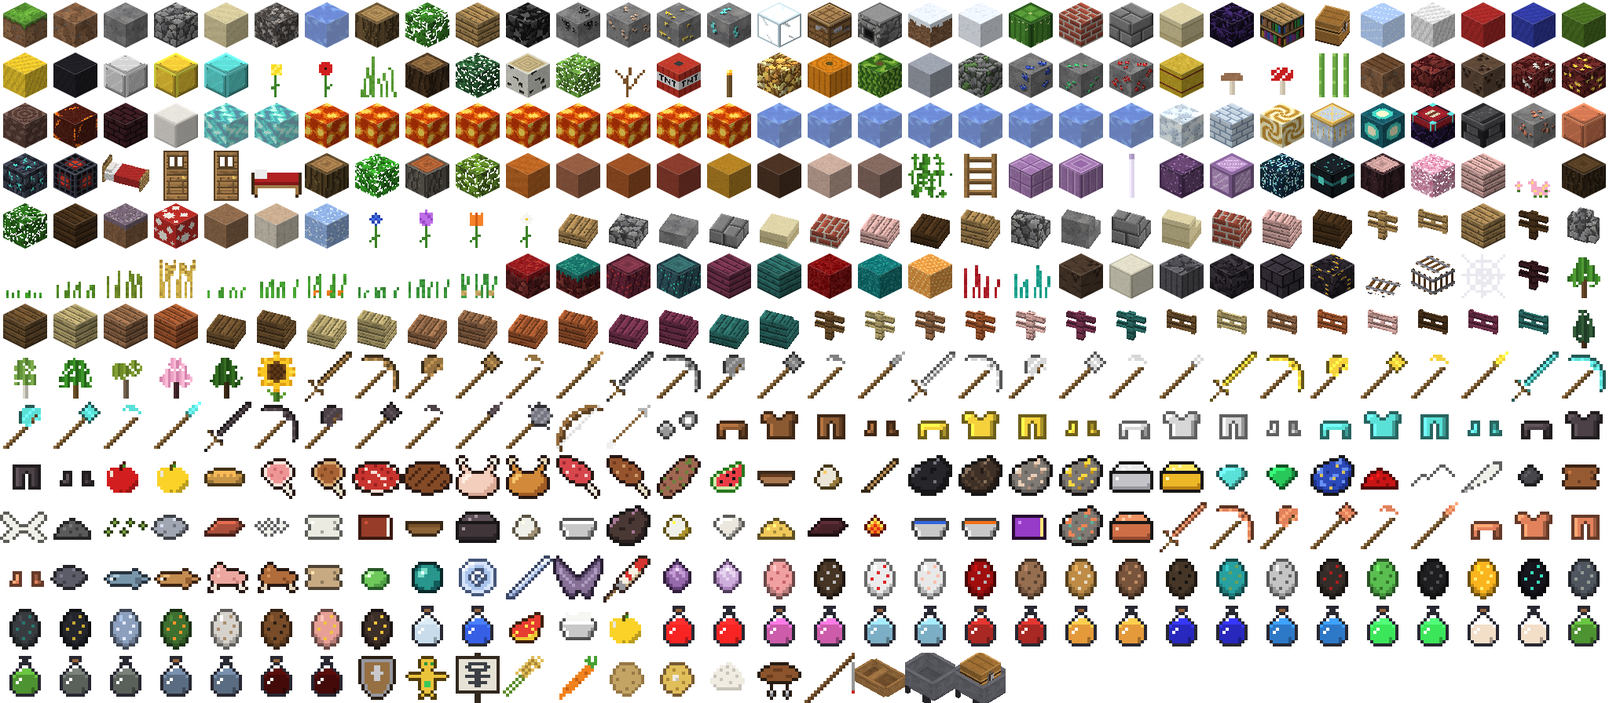
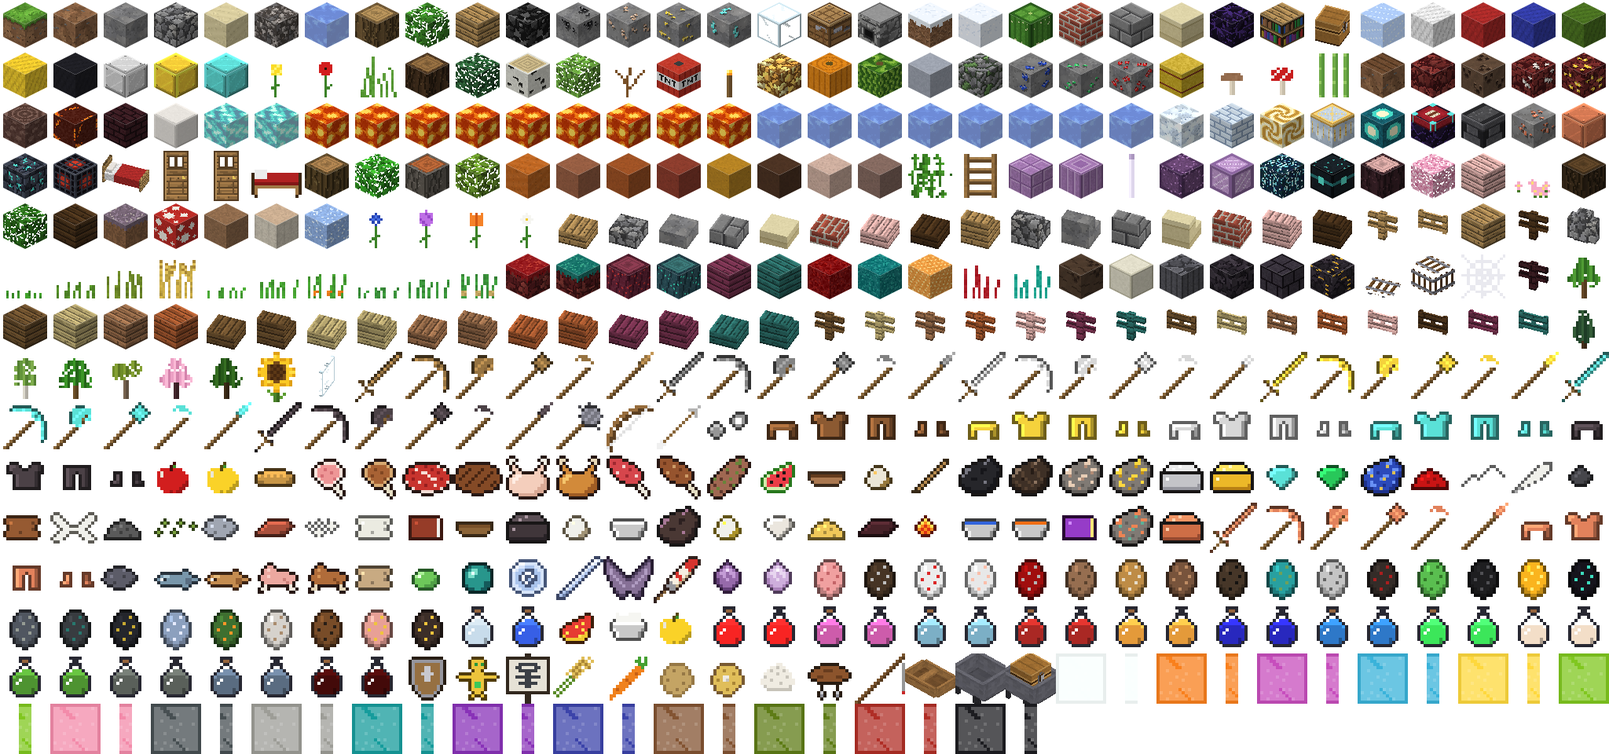
VoxelMundo 2.91: regra do espelho no multijogador, gelo corrigido, vidro fino e vidro colorido (16 cores)
Claude-Session: https://claude.ai/code/session_01SKzGsMSN5sGbjpC94Uaicj

diff --git a/VoxelMundo/app/src/main/assets/js/jogo.js b/VoxelMundo/app/src/main/assets/js/jogo.js
@@ -1263,6 +1263,9 @@ function blockBoxes(id, X, Y, Z, phys, world) {
     case 'slab': return bd && bd.top ? [[0, 0.5, 0, 1, 1, 1]] : [[0, 0, 0, 1, 0.5, 1]];
     case 'stairs': { const f = bd && bd.f !== undefined ? bd.f : 0, top = bd && bd.top; const lo = top ? [0, 0.5, 0, 1, 1, 1] : [0, 0, 0, 1, 0.5, 1], y0 = top ? 0 : 0.5, y1 = top ? 0.5 : 1;
       const hi = f === 0 ? [0.5, y0, 0, 1, y1, 1] : f === 1 ? [0, y0, 0, 0.5, y1, 1] : f === 2 ? [0, y0, 0.5, 1, y1, 1] : [0, y0, 0, 1, y1, 0.5]; return [lo, hi]; }
+    case 'pane': { const P0 = 7 / 16, P1 = 9 / 16; const con = (dx, dz) => { const n = w ? w.getBlock(X + dx, Y, Z + dz) : 0, nb = BL[n]; return !!nb && (nb.boxes === 'pane' || n === BID.glass || n === 244 || (OPAQ[n] && SOLID[n] && !nb.boxes && !nb.shape)); };
+      const c = [con(1, 0), con(-1, 0), con(0, 1), con(0, -1)], out = [[P0, 0, P0, P1, 1, P1]];
+      if (c[0]) out.push([P1, 0, P0, 1, 1, P1]); if (c[1]) out.push([0, 0, P0, P0, 1, P1]); if (c[2]) out.push([P0, 0, P1, P1, 1, 1]); if (c[3]) out.push([P0, 0, 0, P1, 1, P0]); return out; }
     case 'fence': case 'wall': {
       const wall = b.boxes === 'wall', P0 = wall ? 0.25 : 0.375, P1 = 1 - P0, A0 = wall ? 0.3125 : 0.4375, A1 = 1 - A0, H = phys ? 1.75 : 1;
       const con = (dx, dz) => { const n = w ? w.getBlock(X + dx, Y, Z + dz) : 0, nb = BL[n]; return !!nb && (nb.boxes === 'fence' || nb.boxes === 'wall' || nb.boxes === 'gate' || (OPAQ[n] && SOLID[n] && !nb.boxes && !nb.shape)); };
@@ -1282,14 +1285,14 @@ function blockBoxes(id, X, Y, Z, phys, world) {
   return [[0, 0, 0, 1, 1, 1]];
 }
 // desenha caixas com textura recortada (sem esticar) — usado pelo mesher, ícones e itens no chão
-function emitBoxes(A, boxes, ox, oy, oz, tex, sky, bl, cull, scale, cullAll) {
+function emitBoxes(A, boxes, ox, oy, oz, tex, sky, bl, cull, scale, cullAll, tint) {
   const S = scale || 1, verts = [[0, 0, 0], [0, 0, 0], [0, 0, 0], [0, 0, 0]], uvs = [[0, 0], [0, 0], [0, 0], [0, 0]], cols = [0, 0, 0, 0];
   for (const bx of boxes) for (let f = 0; f < 6; f++) {
     const F = FACES[f]; const ax = F.d[0] ? 0 : F.d[1] ? 1 : 2, pos = F.d[ax] > 0; if (cull && (cullAll || (pos ? bx[ax + 3] >= 1 : bx[ax] <= 0)) && cull(f)) continue;
     const t = F.t === 'top' ? tex.top : F.t === 'bottom' ? tex.bottom : tex.side;
     for (let k = 0; k < 4; k++) { const c = F.c[k]; const X = bx[0] + c[0] * (bx[3] - bx[0]), Y = bx[1] + c[1] * (bx[4] - bx[1]), Z = bx[2] + c[2] * (bx[5] - bx[2]);
       verts[k] = [ox + X * S, oy + Y * S, oz + Z * S]; const u = ax === 0 ? Z : X, v = ax === 1 ? Z : Y; uvs[k] = tileUV(t, u, v); cols[k] = F.s; }
-    pushQuad(A, verts, uvs, cols, sky, bl, false);
+    pushQuad(A, verts, uvs, cols, sky, bl, false, tint || null);
   }
 }
 (function () {
@@ -1756,6 +1759,46 @@ window.TREES = (function () {
   window.SUNFLOWER = [241, 242];
 })();
 
+// ================= VIDRO: vidro fino (painel), vidro colorido (16 cores) e painel colorido =================
+// Os coloridos são UM bloco cada (vidro colorido e painel colorido); a cor fica guardada no próprio bloco (estado 1..16),
+// do mesmo jeito que o tronco deitado guarda o eixo. No inventário cada cor é um item.
+(function () {
+  window.GLASS_COLORS = [
+    ['white', 'Branco', 'White', [249, 255, 254], 'bone_meal'], ['orange', 'Laranja', 'Orange', [249, 128, 29], 'orange_tulip'],
+    ['magenta', 'Magenta', 'Magenta', [199, 78, 189], 'allium'], ['light_blue', 'Azul-claro', 'Light Blue', [58, 179, 218], 'cornflower'],
+    ['yellow', 'Amarelo', 'Yellow', [254, 216, 61], 'dandelion'], ['lime', 'Verde-limão', 'Lime', [128, 199, 31], 'slimeball'],
+    ['pink', 'Rosa', 'Pink', [243, 139, 170], 'pink_petals'], ['gray', 'Cinza', 'Gray', [71, 79, 82], 'gravel'],
+    ['light_gray', 'Cinza-claro', 'Light Gray', [157, 157, 151], 'oxeye_daisy'], ['cyan', 'Ciano', 'Cyan', [22, 156, 156], 'copper_ingot'],
+    ['purple', 'Roxo', 'Purple', [137, 50, 184], 'void_prism'], ['blue', 'Azul', 'Blue', [60, 68, 170], 'lapis'],
+    ['brown', 'Marrom', 'Brown', [131, 84, 50], 'dirt'], ['green', 'Verde', 'Green', [94, 124, 22], 'cactus'],
+    ['red', 'Vermelho', 'Red', [176, 46, 38], 'poppy'], ['black', 'Preto', 'Black', [29, 29, 33], 'coal']];
+  window.GLASS_TINT = GLASS_COLORS.map(c => c[3].map(v => Math.max(0.12, v / 255)));
+  // vidro colorido: claro e meio transparente (a cor vem do bloco)
+  retile('stained_glass', (px, r) => { for (let y = 0; y < 16; y++) for (let x = 0; x < 16; x++) { const edge = x === 0 || y === 0 || x === 15 || y === 15; let a = edge ? 215 : 120, v = edge ? 238 : 255;
+    if (!edge && ((x === y + 3 && x < 8) || (x === y - 4 && x > 6 && x < 12) || (x + 1 === y + 3 && x < 7))) { a = 170; v = 255; } if (!edge && r() < 0.08) a -= 18; px(x, y, [v, v, v, a]); } });
+  const add = (id, key, name, o) => { const b = defBlock(id, key, name, o); OPAQ[id] = 0; SOLID[id] = b.solid === false ? 0 : 1; return b; };
+  add(243, 'glass_pane', 'Painel de Vidro', { opaque: false, shape: 'box', boxes: 'pane', hard: 0.3, drop: 0, snd: 'glass', t: 'glass' });
+  add(244, 'stained_glass', 'Vidro Colorido', { opaque: false, translucent: true, hard: 0.3, drop: 0, snd: 'glass', t: 'stained_glass', creative: false });
+  add(245, 'stained_glass_pane', 'Painel de Vidro Colorido', { opaque: false, translucent: true, shape: 'box', boxes: 'pane', hard: 0.3, drop: 0, snd: 'glass', t: 'stained_glass', creative: false });
+  defItem(243, 'glass_pane', 'Painel de Vidro', { block: 243, cat: 'blocks' });
+  const EN0 = typeof EN !== 'undefined' ? EN : null; if (EN0) EN0.glass_pane = 'Glass Pane';
+  shaped(['GGG', 'GGG'], { G: 'glass' }, 'glass_pane', 16);
+  // ícone: o desenho do vidro pintado com a cor
+  const tinted = (st, pane) => () => { const c = document.createElement('canvas'); c.width = c.height = 32; const g = c.getContext('2d'); g.imageSmoothingEnabled = false; const t = T.stained_glass, [R, G2, B] = GLASS_COLORS[st - 1][3];
+    const tmp = document.createElement('canvas'); tmp.width = tmp.height = 16; const tg = tmp.getContext('2d'); tg.drawImage(atlasCanvas, (t % 16) * 16, Math.floor(t / 16) * 16, 16, 16, 0, 0, 16, 16);
+    const d = tg.getImageData(0, 0, 16, 16); for (let i = 0; i < d.data.length; i += 4) { d.data[i] = d.data[i] * R / 255; d.data[i + 1] = d.data[i + 1] * G2 / 255; d.data[i + 2] = d.data[i + 2] * B / 255; d.data[i + 3] = Math.min(255, d.data[i + 3] * 1.6); } tg.putImageData(d, 0, 0);
+    if (pane) g.drawImage(tmp, 6, 0, 4, 16, 12, 0, 8, 32); else g.drawImage(tmp, 0, 0, 32, 32); return c; };
+  let iid = Math.max(462, IT.length);
+  GLASS_COLORS.forEach(([k, pt, en, , ing], i) => { const st = i + 1, gk = k + '_stained_glass', pk = k + '_stained_glass_pane';
+    defItem(iid++, gk, 'Vidro ' + pt, { block: 244, st, cat: 'blocks', icon: tinted(st, false) });
+    defItem(iid++, pk, 'Painel de Vidro ' + pt, { block: 245, st, cat: 'blocks', icon: tinted(st, true) });
+    if (EN0) { EN0[gk] = en + ' Stained Glass'; EN0[pk] = en + ' Stained Glass Pane'; }
+    if (IID[ing] !== undefined) { shaped(['GGG', 'GDG', 'GGG'], { G: 'glass', D: ing }, gk, 8); shaped(['GGG', 'GDG', 'GGG'], { G: 'glass_pane', D: ing }, pk, 8); }
+    shaped(['GGG', 'GGG'], { G: gk }, pk, 16); });
+  // item colorido de cada bloco+estado (para pegar o bloco certo)
+  window.GLASS_ITEM = { 244: GLASS_COLORS.map(c => IID[c[0] + '_stained_glass']), 245: GLASS_COLORS.map(c => IID[c[0] + '_stained_glass_pane']) };
+})();
+
 // ================= MUNDO =================
 const CS = 16, WH = 160, NH = 96, SEA = 40;
 const ckey = (cx, cz) => cx + ',' + cz;
@@ -2120,7 +2163,8 @@ class World {
 // ================= MESHER =================
 function liqH(id, above) { if (LIQT[above] === LIQT[id]) return 1; const l = LVL[id]; if (l === 0 || l === 8) return 0.875; return Math.max(0.12, (8 - l) / 9); }
 // troncos deitados: o mesmo bloco, só guarda o eixo (1 = ao longo de X, 2 = ao longo de Z). Nas mudanças salvas fica id + 256*eixo.
-const AXIAL = new Uint8Array(256); for (const b of BL) if (b && /^(log|.+_log|crimson_stem|warped_stem|hay|basalt|void_pillar)$/.test(b.key)) AXIAL[b.id] = 1;
+const AXIAL = new Uint8Array(256), LOGAX = new Uint8Array(256); for (const b of BL) if (b && /^(log|.+_log|crimson_stem|warped_stem|hay|basalt|void_pillar)$/.test(b.key)) AXIAL[b.id] = LOGAX[b.id] = 1;
+for (const k of ['stained_glass', 'stained_glass_pane']) if (BID[k] !== undefined) AXIAL[BID[k]] = 1; // estado = cor (1..16)
 function applyMods(c, m) { const d = c.data; for (const i in m) { const v = m[i]; d[i] = v; if (c.ax) c.ax.delete(+i); if (v > 255) (c.ax || (c.ax = new Map())).set(+i, v >> 8); } }
 const FACES = [
   { d: [0, 1, 0], c: [[0, 1, 0], [0, 1, 1], [1, 1, 1], [1, 1, 0]], t: 'top', s: 1.0 },
@@ -2177,7 +2221,7 @@ function meshChunk(world, ch) {
   const blkL = (x, y, z) => { let m = 0; for (let k = 0; k < lights.length; k++) { const L = lights[k]; const v = L[3] - (Math.abs(x - L[0]) + Math.abs(y - L[1]) + Math.abs(z - L[2])); if (v > m) m = v; } return m / 15; };
   LCS.fill(-1); const skv = [0, 0, 0, 0], blv = [0, 0, 0, 0];
   const cl = (x, y, z) => { const i = y < -1 || y > WH ? 0 : ((y + 1) * 18 + (z + 1)) * 18 + (x + 1); if (LCS[i] < 0) { LCS[i] = skyL(x, y, z); LCB[i] = lights.length ? blkL(x, y, z) : 0; } return i; };
-  const S_ = newBuf(), W_ = newBuf(); const fancy = S.fancyLeaves; const ICE = B_('ice');
+  const S_ = newBuf(), W_ = newBuf(), G_ = newBuf(); const fancy = S.fancyLeaves; const ICE = B_('ice');
   let maxY = ch.maxY; for (let i = 0; i < 9; i++) if (nb[i] && nb[i].maxY > maxY) maxY = nb[i].maxY; maxY = Math.min(WH - 1, maxY + 1);
   const verts = [[0, 0, 0], [0, 0, 0], [0, 0, 0], [0, 0, 0]], uvs = [[0, 0], [0, 0], [0, 0], [0, 0]], cols = [0, 0, 0, 0];
   for (let y = 0; y <= Math.min(ch.maxY, WH - 1); y++) for (let z = 0; z < 16; z++) for (let x = 0; x < 16; x++) {
@@ -2235,7 +2279,8 @@ function meshChunk(world, ch) {
     if (b.boxes) {
       const sky = skyL(x, y, z), bl = lights.length ? blkL(x, y, z) : 0;
       if (b.boxes === 'rail') { const rs = railShape(world, ch.cx * 16 + x, y, ch.cz * 16 + z, id); if (rs.asc) { emitRailSlope(S_, x, y, z, rs, Math.max(sky, skyL(x, y + 1, z)), Math.max(bl, lights.length ? blkL(x, y + 1, z) : 0)); continue; } }
-      emitBoxes(S_, blockBoxes(id, ch.cx * 16 + x, y, ch.cz * 16 + z, false, world), x, y, z, b.boxes === 'rail' ? railTex(world, ch.cx * 16 + x, y, ch.cz * 16 + z, id) : b.tex, sky, bl, f => { const F = FACES[f], n = get(x + F.d[0], y + F.d[1], z + F.d[2]); return OPAQ[n] && !BL[n].boxes; });
+      const pst = b.boxes === 'pane' && AXIAL[id] && ch.ax ? (ch.ax.get((y * 16 + z) * 16 + x) || 0) : 0;
+      emitBoxes(b.translucent ? G_ : S_, blockBoxes(id, ch.cx * 16 + x, y, ch.cz * 16 + z, false, world), x, y, z, b.boxes === 'rail' ? railTex(world, ch.cx * 16 + x, y, ch.cz * 16 + z, id) : b.tex, sky, bl, f => { const F = FACES[f], n = get(x + F.d[0], y + F.d[1], z + F.d[2]); return OPAQ[n] && !BL[n].boxes; }, 1, false, pst && window.GLASS_TINT ? GLASS_TINT[pst - 1] : null);
       continue;
     }
     if (b.shape === 'bed') {
@@ -2253,8 +2298,8 @@ function meshChunk(world, ch) {
       for (let f = 0; f < 6; f++) { const F = FACES[f]; if (b.shape === 'bed' && f === 1 && OPAQ[get(x, y - 1, z)]) continue; const t = F.t === 'top' ? tx.top : F.t === 'bottom' ? tx.bottom : tx.side; for (let k = 0; k < 4; k++) { const c = F.c[k]; verts[k] = [x + mn[0] + c[0] * (mx[0] - mn[0]), y + mn[1] + c[1] * (mx[1] - mn[1]), z + mn[2] + c[2] * (mx[2] - mn[2])]; uvs[k] = tileUV(t, FUV[k][0], f > 1 ? mn[1] + c[1] * (mx[1] - mn[1]) : FUV[k][1]); cols[k] = F.s; } pushQuad(S_, verts, uvs, cols, sky, bl, false); }
       continue;
     }
-    const A = b.translucent ? W_ : S_;
-    const axv = AXIAL[id] && ch.ax ? (ch.ax.get((y * 16 + z) * 16 + x) || 0) : 0;
+    const A = b.translucent ? (b.liquid || b.portal ? W_ : G_) : S_; // gelo e vidro colorido: camada própria, desenhada depois da água
+    const stv = AXIAL[id] && ch.ax ? (ch.ax.get((y * 16 + z) * 16 + x) || 0) : 0, axv = LOGAX[id] ? stv : 0, gtint = !LOGAX[id] && stv && window.GLASS_TINT ? GLASS_TINT[stv - 1] : null;
     let facing = -1; if (b.facing) { const bd = world.bdata[(ch.cx * 16 + x) + ',' + y + ',' + (ch.cz * 16 + z)]; facing = bd && bd.f !== undefined ? bd.f : 5; }
     for (let f = 0; f < 6; f++) {
       const F = FACES[f]; const nx = x + F.d[0], ny = y + F.d[1], nz = z + F.d[2]; const n = get(nx, ny, nz);
@@ -2272,10 +2317,10 @@ function meshChunk(world, ch) {
         { let ss = LCS[i0], bb = LCB[i0], n = 1, j; if (!s1) { j = cl(x + o[0][0], y + o[0][1], z + o[0][2]); ss += LCS[j]; bb += LCB[j]; n++; } if (!s2) { j = cl(x + o[1][0], y + o[1][1], z + o[1][2]); ss += LCS[j]; bb += LCB[j]; n++; } if (!cc && !(s1 && s2)) { j = cl(x + o[2][0], y + o[2][1], z + o[2][2]); ss += LCS[j]; bb += LCB[j]; n++; } skv[k] = ss / n; blv[k] = bb / n; }
         const c = F.c[k]; verts[k] = [x + c[0], y + c[1], z + c[2]]; uvs[k] = rot ? tileUV(t, FUV[k][1], 1 - FUV[k][0]) : tileUV(t, FUV[k][0], FUV[k][1]); cols[k] = F.s * AO_L[ao[k]];
       }
-      pushQuad(A, verts, uvs, cols, skv, blv, ao[0] + ao[2] < ao[1] + ao[3], ch.bio && (b.tint || (id === GRASS_ID && f === 0)) ? BIOME_TINT[ch.bio[z * 16 + x]] : null);
+      pushQuad(A, verts, uvs, cols, skv, blv, ao[0] + ao[2] < ao[1] + ao[3], gtint || (ch.bio && (b.tint || (id === GRASS_ID && f === 0)) ? BIOME_TINT[ch.bio[z * 16 + x]] : null));
     }
   }
-  return { solid: bufToGeo(S_), water: bufToGeo(W_) };
+  return { solid: bufToGeo(S_), water: bufToGeo(W_), glass: bufToGeo(G_) };
 }
 // cubo de bloco individual (mão, itens no chão, TNT)
 function blockCubeGeo(id, size = 1) {
@@ -4527,7 +4572,7 @@ const G = {
     const sc = this.scene = new THREE.Scene(); sc.fog = new THREE.Fog(0x9cc4ff, 30, 80); sc.background = new THREE.Color(0x9cc4ff);
     const cam = this.camera = new THREE.PerspectiveCamera(S.fov, innerWidth / innerHeight, 0.05, 1200); cam.rotation.order = 'YXZ'; sc.add(cam);
     const at = this.atlasTex = new THREE.CanvasTexture(atlasCanvas); at.magFilter = THREE.NearestFilter; at.minFilter = THREE.NearestFilter; at.generateMipmaps = false;
-    this.matSolid = terrainMat({ alphaTest: 0.5 }); this.matWater = terrainMat({ transparent: true, opacity: 0.78, depthWrite: false });
+    this.matSolid = terrainMat({ alphaTest: 0.5 }); this.matWater = terrainMat({ transparent: true, opacity: 0.78, depthWrite: false }); this.matGlass = terrainMat({ transparent: true, opacity: 1, depthWrite: true });
     this.amb = new THREE.AmbientLight(0xffffff, 0.6); this.sunL = new THREE.DirectionalLight(0xffffff, 0.5); sc.add(this.amb, this.sunL, this.sunL.target);
     // céu
     this.sky = new THREE.Group(); sc.add(this.sky);
@@ -4849,7 +4894,7 @@ const G = {
     return best || { x: 0.5, y: WH - 10, z: 0.5 };
   },
   // ---------- CHUNKS ----------
-  disposeChunk(c) { for (const k of ['mesh', 'wmesh']) if (c[k]) { this.scene.remove(c[k]); c[k].geometry.dispose(); c[k] = null; } },
+  disposeChunk(c) { for (const k of ['mesh', 'wmesh', 'gmesh']) if (c[k]) { this.scene.remove(c[k]); c[k].geometry.dispose(); c[k] = null; } },
   hasNeighbors(c) { for (let dx = -1; dx <= 1; dx++) for (let dz = -1; dz <= 1; dz++) if (!this.world.chunks.has(ckey(c.cx + dx, c.cz + dz))) return false; return true; },
   updateChunks(budget) {
     const w = this.world, p = this.player; const pcx = Math.floor(p.pos.x) >> 4, pcz = Math.floor(p.pos.z) >> 4; const R = S.renderDist;
@@ -4872,6 +4917,7 @@ const G = {
       c.dirty = false; const g = meshChunk(w, c); this.disposeChunk(c);
       if (g.solid) { c.mesh = new THREE.Mesh(g.solid, this.matSolid); c.mesh.position.set(c.cx * 16, 0, c.cz * 16); this.scene.add(c.mesh); }
       if (g.water) { c.wmesh = new THREE.Mesh(g.water, this.matWater); c.wmesh.position.set(c.cx * 16, 0, c.cz * 16); c.wmesh.renderOrder = 1; this.scene.add(c.wmesh); }
+      if (g.glass) { c.gmesh = new THREE.Mesh(g.glass, this.matGlass); c.gmesh.position.set(c.cx * 16, 0, c.cz * 16); c.gmesh.renderOrder = 2; this.scene.add(c.gmesh); }
       c.meshed = true;
     }
   },
@@ -5178,7 +5224,7 @@ const G = {
       if (nb.shape === 'door' && (y + 1 >= WH || w.getBlock(x, y + 1, z))) return;
       let bedDir = null;
       if (nb.shape === 'bed') { const fx = -Math.sin(p.yaw), fz = -Math.cos(p.yaw); bedDir = Math.abs(fx) > Math.abs(fz) ? (fx > 0 ? 0 : 1) : (fz > 0 ? 2 : 3); const D = BED_DIRS[bedDir], hc = w.getBlock(x + D[0], y, z + D[1]); if (hc && !BL[hc].replace) { UI.toast('A cama precisa de 2 blocos livres.'); return; } }
-      w.setBlock(x, y, z, bedDir !== null ? BID.bed_foot : it.block, { ax: AXIAL[it.block] && t.n[1] === 0 ? (t.n[0] ? 1 : 2) : 0 });
+      w.setBlock(x, y, z, bedDir !== null ? BID.bed_foot : it.block, { ax: it.st ? it.st : LOGAX[it.block] && t.n[1] === 0 ? (t.n[0] ? 1 : 2) : 0 });
       if (nb.torch && t.n[1] === 0 && SOLID[t.id] && !BL[t.id].replace) { w.bdata[x + ',' + y + ',' + z] = { tw: [-t.n[0], -t.n[2]] }; w.markDirty(x >> 4, z >> 4); }
       if (nb.shape === 'panel' && t.n[1] === 0) { w.bdata[x + ',' + y + ',' + z] = { f: t.n[0] === -1 ? 0 : t.n[0] === 1 ? 1 : t.n[2] === -1 ? 2 : 3 }; w.markDirty(x >> 4, z >> 4); }
       if (bedDir !== null) { const D = BED_DIRS[bedDir]; w.bdata[x + ',' + y + ',' + z] = { f: bedDir }; w.setBlock(x + D[0], y, z + D[1], BID.bed, { noUpdate: true }); w.bdata[(x + D[0]) + ',' + y + ',' + (z + D[1])] = { f: bedDir }; w.markDirty(x >> 4, z >> 4); w.markDirty((x + D[0]) >> 4, (z + D[1]) >> 4); }
@@ -7289,6 +7335,7 @@ MOB_CLASS.villager = function (x, y, z) { return new Villager(x, y, z, Math.floo
   // ---------- canal de mensagens (com mensagens grandes em pedaços) ----------
   function send(peer, o) { if (!peer || !peer.open) return; try { const s = JSON.stringify(o); if (s.length < 60000) peer.dc.send(s); else { const id = Math.random().toString(36).slice(2), n = Math.ceil(s.length / 60000); for (let i = 0; i < n; i++) peer.dc.send(JSON.stringify({ t: '~', id, i, n, s: s.slice(i * 60000, (i + 1) * 60000) })); } } catch (e) { } }
   const toAll = (o, except) => { for (const p of NET.peers) if (p !== except) send(p, o); };
+  const envMsg = () => ({ t: 'env', time: G.time, day: G.day, r: !!G.raining, th: !!G.thundering, cm: !!NET.guestCmds && !!G.cheats, diff: G.difficulty, pvp: pvpOn() });
   function wire(peer) {
     const dc = peer.dc; dc.binaryType = 'arraybuffer'; peer.parts = {};
     dc.onopen = () => { peer.open = true; onOpen(peer); };
@@ -7426,7 +7473,7 @@ MOB_CLASS.villager = function (x, y, z) { return new Villager(x, y, z, Math.floo
     const me = G.player; if (me && !me.dead && me.mode !== 'spectator' && hit(me.pos.x, me.pos.y, me.pos.z)) return true;
     for (const q of NET.peers) { if (q === except || !q.open || !q.st || !q.st.p || q.st.dd || q.st.mo === 'spectator' || q.st.d !== G.dim) continue; if (hit(q.st.p[0], q.st.p[1], q.st.p[2])) return true; } return false; }
   // manda de volta o bloco verdadeiro (o mundo do convidado volta a ficar igual ao do anfitrião)
-  function resync(peer, list) { const out = []; for (const e of list) { const [d, x, y, z] = e; const w = worldOf(d); if (!w || !w.chunks.get(ckey(x >> 4, z >> 4))) continue; out.push([d, x, y, z, w.getBlock(x, y, z)]); } if (out.length) send(peer, { t: 'b', l: out }); }
+  function resync(peer, list) { const out = []; for (const e of list) { const [d, x, y, z] = e; const w = worldOf(d); if (!w || !w.chunks.get(ckey(x >> 4, z >> 4))) continue; { const a = w.getAxis ? w.getAxis(x, y, z) : 0; out.push(a ? [d, x, y, z, w.getBlock(x, y, z), a] : [d, x, y, z, w.getBlock(x, y, z)]); } } if (out.length) send(peer, { t: 'b', l: out }); }
   function netRuleOk(peer, o) {
     const now = performance.now(), dead = guestDead(peer), spec = guestSpec(peer);
     switch (o.t) {
@@ -7479,6 +7526,10 @@ MOB_CLASS.villager = function (x, y, z) { return new Villager(x, y, z, Math.floo
       case 'hit': { const e = G.entities.find(e => e.nid === o.i && !e.dead); if (e && e.hurt) { const kb = o.k ? new THREE.Vector3(o.k[0], o.k[1], o.k[2]) : null; const px = proxyOf(peer); const keep = G.player; G.player = px; try { if (o.f) e.fireT = 5; e.invuln = Math.min(e.invuln || 0, 0); e.hurt(o.n, px, kb, !!o.r); } finally { G.player = keep; } } break; }
       case 'use': { const e = G.entities.find(e => e.nid === o.i && !e.dead); if (e) handleUse(peer, e, o); break; }
       case 'summon': { if (worldOf(o.d) === G.world && MOB_TYPES[o.m]) { const m = makeMob(o.m, o.p[0], o.p[1], o.p[2]); G.entities.push(m); } break; }
+      case 'cmd': { if (!NET.guestCmds || !spamOk(peer)) { send(peer, { t: 'chat', m: tr('O dono do mundo não liberou comandos.', 'The host has not allowed commands.'), c: '#f66' }); break; } const v = String(o.v || '').slice(0, 120), c = (v.slice(1).split(/\s+/)[0] || '').toLowerCase();
+        if (['raio', 'lightning'].includes(c) && Array.isArray(o.p) && G.strike && nearGuest(peer, o.p[0], G.player.pos.y, o.p[1], 24)) G.strike(+o.p[0], +o.p[1]);
+        else if (['time', 'weather', 'clima', 'difficulty'].includes(c) || (c === 'kill' && /@e/.test(v))) { const keep = G.cheats; G.cheats = true; try { G.chatSubmit(v); } finally { G.cheats = keep; } }
+        UI.chat('[' + peer.name + '] ' + v, '#aaa'); toAll(envMsg()); break; }
       case 'chat': { if (!peer.name || !spamOk(peer)) break; const m = '<' + peer.name + '> ' + cleanText(String(o.m).slice(0, 200)); UI.chat(m); toAll({ t: 'chat', m }, peer); break; }
       case 'save': saveGuest(peer, o.s); break;
       case 'tnt': { if (worldOf(o.d) === G.world) G.entities.push(new PrimedTNT(o.p[0], o.p[1], o.p[2], o.f)); break; }
@@ -7517,12 +7568,13 @@ MOB_CLASS.villager = function (x, y, z) { return new Villager(x, y, z, Math.floo
       case 'e': applyEnts(o); break;
       case 'pl': applyPlayers(o.l); break;
       case 'left': dropAvatar(o.id); break;
-      case 'env': { G.time = o.time; G.day = o.day; G.raining = o.r; G.weatherT = 1e9; if (o.diff !== undefined) G.difficulty = o.diff; NET.pvp = o.pvp !== false; break; }
+      case 'env': { G.time = o.time; G.day = o.day; G.raining = o.r; G.thundering = !!o.th; G.cheats = !!o.cm; G.weatherT = 1e9; if (o.diff !== undefined) G.difficulty = o.diff; NET.pvp = o.pvp !== false; break; }
       case 'hurt': { if (o.s === 'pvp') { pvpHurtMe(o.d, o.by, o.k); break; } const p = G.player; if (!p || p.dead) break; const kb = o.k ? new THREE.Vector3(o.k[0], o.k[1], o.k[2]) : null; p.damage(o.d, o.s, kb); break; }
       case 'xp': if (G.player) G.player.addXP(o.n); break;
       case 'give': { const p = G.player; if (!p) break; const left = p.give(o.s); Snd.play('pop', 0.5); UI.dirtyHotbar = true; if (left > 0) sendHost({ t: 'drop', d: G.dim, p: [p.pos.x, p.pos.y + 0.5, p.pos.z], s: Object.assign({}, o.s, { c: left }) }); break; }
       case 'held': { const p = G.player; if (p) { p.held = o.s; UI.dirtyHotbar = true; } break; }
       case 'chat': UI.chat(o.m, o.c); break;
+      case 'bolt': if (G.strike && Array.isArray(o.p)) G.strike(+o.p[0], +o.p[2], +o.p[1], true); break;
       case 'deny': NET.denied = o.r; break;
       case 'kpk': if (window.kitReward) kitReward(); break;
       case 'bye': if (peer.open) { peer.open = false; onClose(peer); } break;
@@ -7530,27 +7582,28 @@ MOB_CLASS.villager = function (x, y, z) { return new Villager(x, y, z, Math.floo
     }
   }
   const sendHost = o => send(NET.host, o);
+  window.NETX = { toAll: o => toAll(o), sendHost: o => sendHost(o), send: (p, o) => send(p, o), isHost, isClient };
 
   // ---------- blocos ----------
   const worldOf = d => (G.world && G.world.dim === d) ? G.world : (G.worlds && G.worlds[d]) || null;
   let bq = [];
   function applyBlocks(list, fromPeer) {
     window._netApply = NET.role === 'client';
-    try { for (const [d, x, y, z, id] of list) { const w = worldOf(d);
+    try { for (const [d, x, y, z, id, ax0] of list) { const w = worldOf(d), ax = (+ax0 === 1 || +ax0 === 2) ? +ax0 : 0;
       if (w) { const c = w.chunks.get(ckey(x >> 4, z >> 4)); const old = c ? w.getBlock(x, y, z) : -1;
-        if (c) { if (NET.role === 'client') { w.setBlock(x, y, z, id, { noUpdate: true, keepData: true }); if (old > 0 && !id && w === G.world && G.player && G.player.pos.distanceTo(new THREE.Vector3(x, y, z)) < 24) { Particles.blockBreak(x, y, z, old); Snd.mat(BL[old].snd, 0.5 * G.vol(new THREE.Vector3(x, y, z))); } }
-          else { if (fromPeer && id && BL[id] && BL[id].key.includes('leaves')) (w.bdata.pleaf || (w.bdata.pleaf = {}))[x + ',' + y + ',' + z] = 1; if (fromPeer && !id && old > 0) { Particles.blockBreak(x, y, z, old); Snd.mat(BL[old].snd, 0.6 * G.vol(new THREE.Vector3(x, y, z))); } w.setBlock(x, y, z, id); } }
-        else { const k = ckey(x >> 4, z >> 4); (w.mods[k] || (w.mods[k] = {}))[(y * 16 + (z & 15)) * 16 + (x & 15)] = id; } }
-      else { const D = G.dimData[d] || (G.dimData[d] = { mods: {}, bdata: {} }); const k = ckey(x >> 4, z >> 4); (D.mods[k] || (D.mods[k] = {}))[(y * 16 + (z & 15)) * 16 + (x & 15)] = id; } } }
+        if (c) { if (NET.role === 'client') { w.setBlock(x, y, z, id, { noUpdate: true, keepData: true, ax }); if (old > 0 && !id && w === G.world && G.player && G.player.pos.distanceTo(new THREE.Vector3(x, y, z)) < 24) { Particles.blockBreak(x, y, z, old); Snd.mat(BL[old].snd, 0.5 * G.vol(new THREE.Vector3(x, y, z))); } }
+          else { if (fromPeer && id && BL[id] && BL[id].key.includes('leaves')) (w.bdata.pleaf || (w.bdata.pleaf = {}))[x + ',' + y + ',' + z] = 1; if (fromPeer && !id && old > 0) { Particles.blockBreak(x, y, z, old); Snd.mat(BL[old].snd, 0.6 * G.vol(new THREE.Vector3(x, y, z))); } w.setBlock(x, y, z, id, { ax }); } }
+        else { const k = ckey(x >> 4, z >> 4); (w.mods[k] || (w.mods[k] = {}))[(y * 16 + (z & 15)) * 16 + (x & 15)] = id + 256 * ax; } }
+      else { const D = G.dimData[d] || (G.dimData[d] = { mods: {}, bdata: {} }); const k = ckey(x >> 4, z >> 4); (D.mods[k] || (D.mods[k] = {}))[(y * 16 + (z & 15)) * 16 + (x & 15)] = id + 256 * ax; } } }
     finally { window._netApply = false; }
   }
   const sb = World.prototype.setBlock;
   World.prototype.setBlock = function (x, y, z, id, opts) {
     if (NET.role === 'client' && NET.host && !window._netApply && this === G.world) opts = Object.assign({}, opts, { noUpdate: true }); // no convidado o anfitrião faz água correr, areia cair, etc.
-    const old = (NET.role && this.chunks.get(ckey(x >> 4, z >> 4))) ? this.getBlock(x, y, z) : null;
-    const r = sb.call(this, x, y, z, id, opts);
+    const old = (NET.role && this.chunks.get(ckey(x >> 4, z >> 4))) ? this.getBlock(x, y, z) : null, oax = old !== null && this.getAxis ? this.getAxis(x, y, z) : 0;
+    const r = sb.call(this, x, y, z, id, opts); const nax = old !== null && this.getAxis ? this.getAxis(x, y, z) : 0;
     if (NET.role === 'client' && !window._netApply) { if (touched.size > 5000) touched.clear(); touched.add(x + ',' + y + ',' + z); }
-    if (NET.role && !window._netApply && old !== null && old !== id && (this === G.world || (G.worlds && G.worlds[this.dim] === this)) && (isHost() || isClient())) bq.push([this.dim, x, y, z, id]);
+    if (NET.role && !window._netApply && old !== null && (old !== id || oax !== nax) && (this === G.world || (G.worlds && G.worlds[this.dim] === this)) && (isHost() || isClient())) bq.push(nax ? [this.dim, x, y, z, id, nax] : [this.dim, x, y, z, id]);
     return r;
   };
   // ---------- dados de blocos (baús, fornalhas, direção de escadas/portas...) ----------
@@ -7750,7 +7803,7 @@ MOB_CLASS.villager = function (x, y, z) { return new Villager(x, y, z, Math.floo
   // botão PvP no menu de pausa (só quem criou o mundo muda)
   const bPvp = document.createElement('button'); bPvp.className = 'btn'; bPvp.id = 'pPvp';
   const pvpLabel = () => { bPvp.textContent = tr('PvP: ', 'PvP: ') + (pvpOn() ? tr('Ligado', 'On') : tr('Desligado', 'Off')); bPvp.style.display = NET.active() ? '' : 'none'; bPvp.disabled = NET.role === 'client'; };
-  bPvp.onclick = () => { if (NET.role !== 'host') return; G.endState.pvp = !pvpOn(); pvpLabel(); const m = tr('PvP ', 'PvP ') + (pvpOn() ? tr('ligado', 'on') : tr('desligado', 'off')); UI.chat(m, '#ff5'); toAll({ t: 'chat', m, c: '#ff5' }); toAll({ t: 'env', time: G.time, day: G.day, r: !!G.raining, diff: G.difficulty, pvp: pvpOn() }); };
+  bPvp.onclick = () => { if (NET.role !== 'host') return; G.endState.pvp = !pvpOn(); pvpLabel(); const m = tr('PvP ', 'PvP ') + (pvpOn() ? tr('ligado', 'on') : tr('desligado', 'off')); UI.chat(m, '#ff5'); toAll({ t: 'chat', m, c: '#ff5' }); toAll(envMsg()); };
   NET._pvpLabel = pvpLabel; NET._pvpBtn = bPvp;
   // ---------- ciclo da rede (roda a cada quadro) ----------
   let tP = 0, tE = 0, tEnv = 0, tSave = 0;
@@ -7770,7 +7823,7 @@ MOB_CLASS.villager = function (x, y, z) { return new Villager(x, y, z, Math.floo
       if (tP <= 0) { tP = 1 / 15; const me = myState(); for (const peer of NET.peers) { if (!peer.open) continue; const l = [me]; for (const o of NET.peers) if (o !== peer && o.st && o.open) l.push(Object.assign({}, o.st, { id: o.id, n: o.name, sk: o.skin, save: undefined })); send(peer, { t: 'pl', l }); }
         const L = []; for (const o of NET.peers) if (o.st && o.open) L.push(Object.assign({}, o.st, { id: o.id, n: o.name, sk: o.skin })); applyPlayers(L); }
       if (tE <= 0) { tE = 0.1; for (const peer of NET.peers) if (peer.open && peer.st) send(peer, entsFor(peer)); }
-      if (tEnv <= 0) { tEnv = 1; toAll({ t: 'env', time: G.time, day: G.day, r: !!G.raining, diff: G.difficulty, pvp: pvpOn() }); }
+      if (tEnv <= 0) { tEnv = 1; toAll(envMsg()); }
     } else {
       if (tP <= 0) { tP = 1 / 15; const st = myState(); if (tSave <= 0) { tSave = 8; st.save = guestSave(); } sendHost(Object.assign({ t: 'me' }, st)); }
     }
@@ -8355,6 +8408,7 @@ body.touch #actbtn.show{display:block}`;
     ['items', '', 'Lista todos os itens', 'List all items', []],
     ['mobs', '', 'Lista todas as criaturas', 'List all mobs', []],
     ['players', '', 'Quem está jogando (multijogador)', 'Who is online (multiplayer)', []],
+    ['comandos', '<on|off>', 'Libera ou bloqueia comandos dos convidados (dono)', 'Allow or block guest commands (host)', [['on', 'off']]],
     ['kick', '<jogador>', 'Expulsa um jogador (dono)', 'Kick a player (host)', []],
     ['mute', '<jogador> [minutos]', 'Deixa um jogador mudo (dono)', 'Mute a player (host)', []],
     ['help', '', 'Ajuda', 'Help', []]
@@ -8496,7 +8550,7 @@ body.chopen #touchui,body.chopen #chatlog,body.chopen #itemname,body.chopen #hot
     const real = this.master, lp = this.ctx.createBiquadFilter(); lp.type = 'lowpass'; lp.frequency.value = pend.f; lp.Q.value = 0.5; lp.connect(real);
     const rev = this.sfxRev; this.master = lp; if (rev && pend.q) this.sfxRev = lp; // atrás da parede: sem eco "aberto"
     try { return pl(name, vol); } finally { this.master = real; this.sfxRev = rev; } };
-  const mt = Snd.mat && Snd.mat.bind(Snd); if (mt) Snd.mat = function () { if (!pend || performance.now() - pendT > 4) return mt.apply(this, arguments); const real = this.master, lp = this.ctx.createBiquadFilter(); lp.type = 'lowpass'; lp.frequency.value = pend.f; lp.connect(real); this.master = lp; try { return mt.apply(this, arguments); } finally { this.master = real; } };
+  const mt = Snd.mat && Snd.mat.bind(Snd); if (mt) Snd.mat = function () { if (!pend || performance.now() - pendT > 4 || !this.ctx || !this.master) return mt.apply(this, arguments); const real = this.master, lp = this.ctx.createBiquadFilter(); lp.type = 'lowpass'; lp.frequency.value = pend.f; lp.connect(real); this.master = lp; try { return mt.apply(this, arguments); } finally { this.master = real; } };
 })();
 
 // ===== REGRAS GLOBAIS: quando uma tela está aberta (inventário, baú, chat, pausa, morte), nada acontece no mundo =====
@@ -8832,9 +8886,11 @@ body.chopen #touchui,body.chopen #chatlog,body.chopen #itemname,body.chopen #hot
     if (dist < 40) band(4000, 600, 0.35, 0.9 * vol, 0, 'lowpass');
     band(420, 60, 3.2, 0.9 * vol, 0.05); band(240, 40, 4.5, 0.7 * vol, 0.35); band(160, 35, 5.5, 0.55 * vol, 1.1);
   }
-  G.strike = function (x, z, y) {
+  G.strike = function (x, z, y, fxOnly) {
     const w = this.world; if (!w) return; x = Math.floor(x); z = Math.floor(z); if (y === undefined) y = w.topAt(x, z) + 1;
     makeBolt(x + 0.5, y, z + 0.5); this.flash = 1; const p = this.player, d = Math.hypot(p.pos.x - x, p.pos.z - z); thunderSound(d);
+    if (fxOnly) return; // convidado: só o desenho, o som e o clarão (o dono cuida do fogo e do dano)
+    const NX = window.NETX; if (NX && NX.isHost()) { NX.toAll({ t: 'bolt', p: [x, y, z] }); for (const peer of NET.peers) { const px = peer.proxy; if (px && !px.dead && px.dim === this.dim && Math.hypot(px.pos.x - x - 0.5, px.pos.z - z - 0.5) < 3 && Math.abs(px.pos.y - y) < 4) px.damage(5, 'lightning'); } }
     // fogo e dano no lugar do raio
     if (this.difficulty > 0 && Math.random() < 0.7) try { FireSys.ignite(x, y, z); } catch (e) { }
     for (const e of this.entities) if (e instanceof Mob && !e.dying && Math.hypot(e.pos.x - x - 0.5, e.pos.z - z - 0.5) < 3 && Math.abs(e.pos.y - y) < 4) { e.hurt(5, null, null); e.fireT = 8; }
@@ -8844,13 +8900,15 @@ body.chopen #touchui,body.chopen #chatlog,body.chopen #itemname,body.chopen #hot
   let nextT = 6;
   const up = G.tick; G.tick = function (dt) {
     const wasRain = this.raining; const r = up.apply(this, arguments);
-    if (this.state === 'play' && this.world) {
+    const guest = window.NETX && NETX.isClient();
+    if (this.state === 'play' && this.world && !guest) {
       if (this.raining && !wasRain && this.dim === 'overworld') this.thundering = Math.random() < 0.3; // chuva nova: às vezes vira tempestade
       if (!this.raining) this.thundering = false;
       const on = this.thundering && this.dim === 'overworld'; this.thunderF += ((on ? 1 : 0) - this.thunderF) * Math.min(1, dt * 0.4);
       if (on && this.rainF > 0.6) { nextT -= dt; if (nextT <= 0) { nextT = 4 + Math.random() * 14; const p = this.player, a = Math.random() * Math.PI * 2, rr = 8 + Math.random() * 70; this.strike(p.pos.x + Math.cos(a) * rr, p.pos.z + Math.sin(a) * rr); } }
     }
     if (this.thunderHold) return r; // só para testes
+    if (guest) this.thunderF += ((this.thundering && this.dim === 'overworld' ? 1 : 0) - this.thunderF) * Math.min(1, dt * 0.4);
     for (let i = bolts.length - 1; i >= 0; i--) { const b = bolts[i]; b.t -= dt; b.g.visible = b.t > 0.3 || (b.t * 20 | 0) % 2 === 0; if (b.t <= 0) { this.scene.remove(b.g); bolts.splice(i, 1); } }
     this.flash = Math.max(0, this.flash - dt * 3.2);
     return r;
@@ -8952,4 +9010,20 @@ html,body,*{overscroll-behavior:none}
   addEventListener('resize', () => requestAnimationFrame(fit));
   // lista de servidores sem emoji de cadeado
   new MutationObserver(ms => { for (const m of ms) for (const n of m.addedNodes) if (n.nodeType === 1 && n.classList && n.classList.contains('lob') && /🔒/.test(n.textContent)) n.textContent = n.textContent.replace(/🔒\s*/, '[' + L('senha', 'password') + '] '); }).observe(document.body, { childList: true, subtree: true });
+})();
+
+// ================= REGRA DO ESPELHO (multijogador): o que muda o mundo passa pelo dono e chega igual para todos =================
+// Comandos do convidado: só se o dono liberar (/comandos on). Os que mudam o mundo (hora, clima, raio, dificuldade, /kill @e) vão
+// para o dono executar; os pessoais (/give, /heal, /tp, /gamemode...) rodam só no convidado.
+(function () {
+  const en = () => S.lang === 'en', L = (pt, e) => en() ? e : pt;
+  const WORLD = new Set(['time', 'weather', 'clima', 'difficulty', 'raio', 'lightning']);
+  const cs = G.chatSubmit; G.chatSubmit = function (v) {
+    const NX = window.NETX; v = String(v || '');
+    if (NX && NX.isClient() && v[0] === '/') { const c = (v.slice(1).split(/\s+/)[0] || '').toLowerCase();
+      if (!this.cheats) { UI.chat(L('O dono do mundo não liberou comandos para convidados.', 'The host has not allowed commands for guests.'), '#f66'); return; }
+      if (WORLD.has(c) || (c === 'kill' && /@e/.test(v))) { const o = { t: 'cmd', v }; if (c === 'raio' || c === 'lightning') { const d = this.lookDir(); o.p = [this.player.pos.x + d.x * 8, this.player.pos.z + d.z * 8]; } NX.sendHost(o); return; } }
+    if (window.NET && NET.role === 'host') { const m = /^\/(comandos|commands)\s+(\S+)/i.exec(v); if (m) { const on = /^(on|sim|liga|ligar|yes|1)$/i.test(m[2]); NET.guestCmds = on; const msg = L('Comandos para convidados: ', 'Guest commands: ') + (on ? L('liberados', 'allowed') : L('bloqueados', 'blocked')); UI.chat(msg, '#ff5'); if (window.NETX) NETX.toAll({ t: 'chat', m: msg, c: '#ff5' }); return; } }
+    return cs.apply(this, arguments);
+  };
 })();
